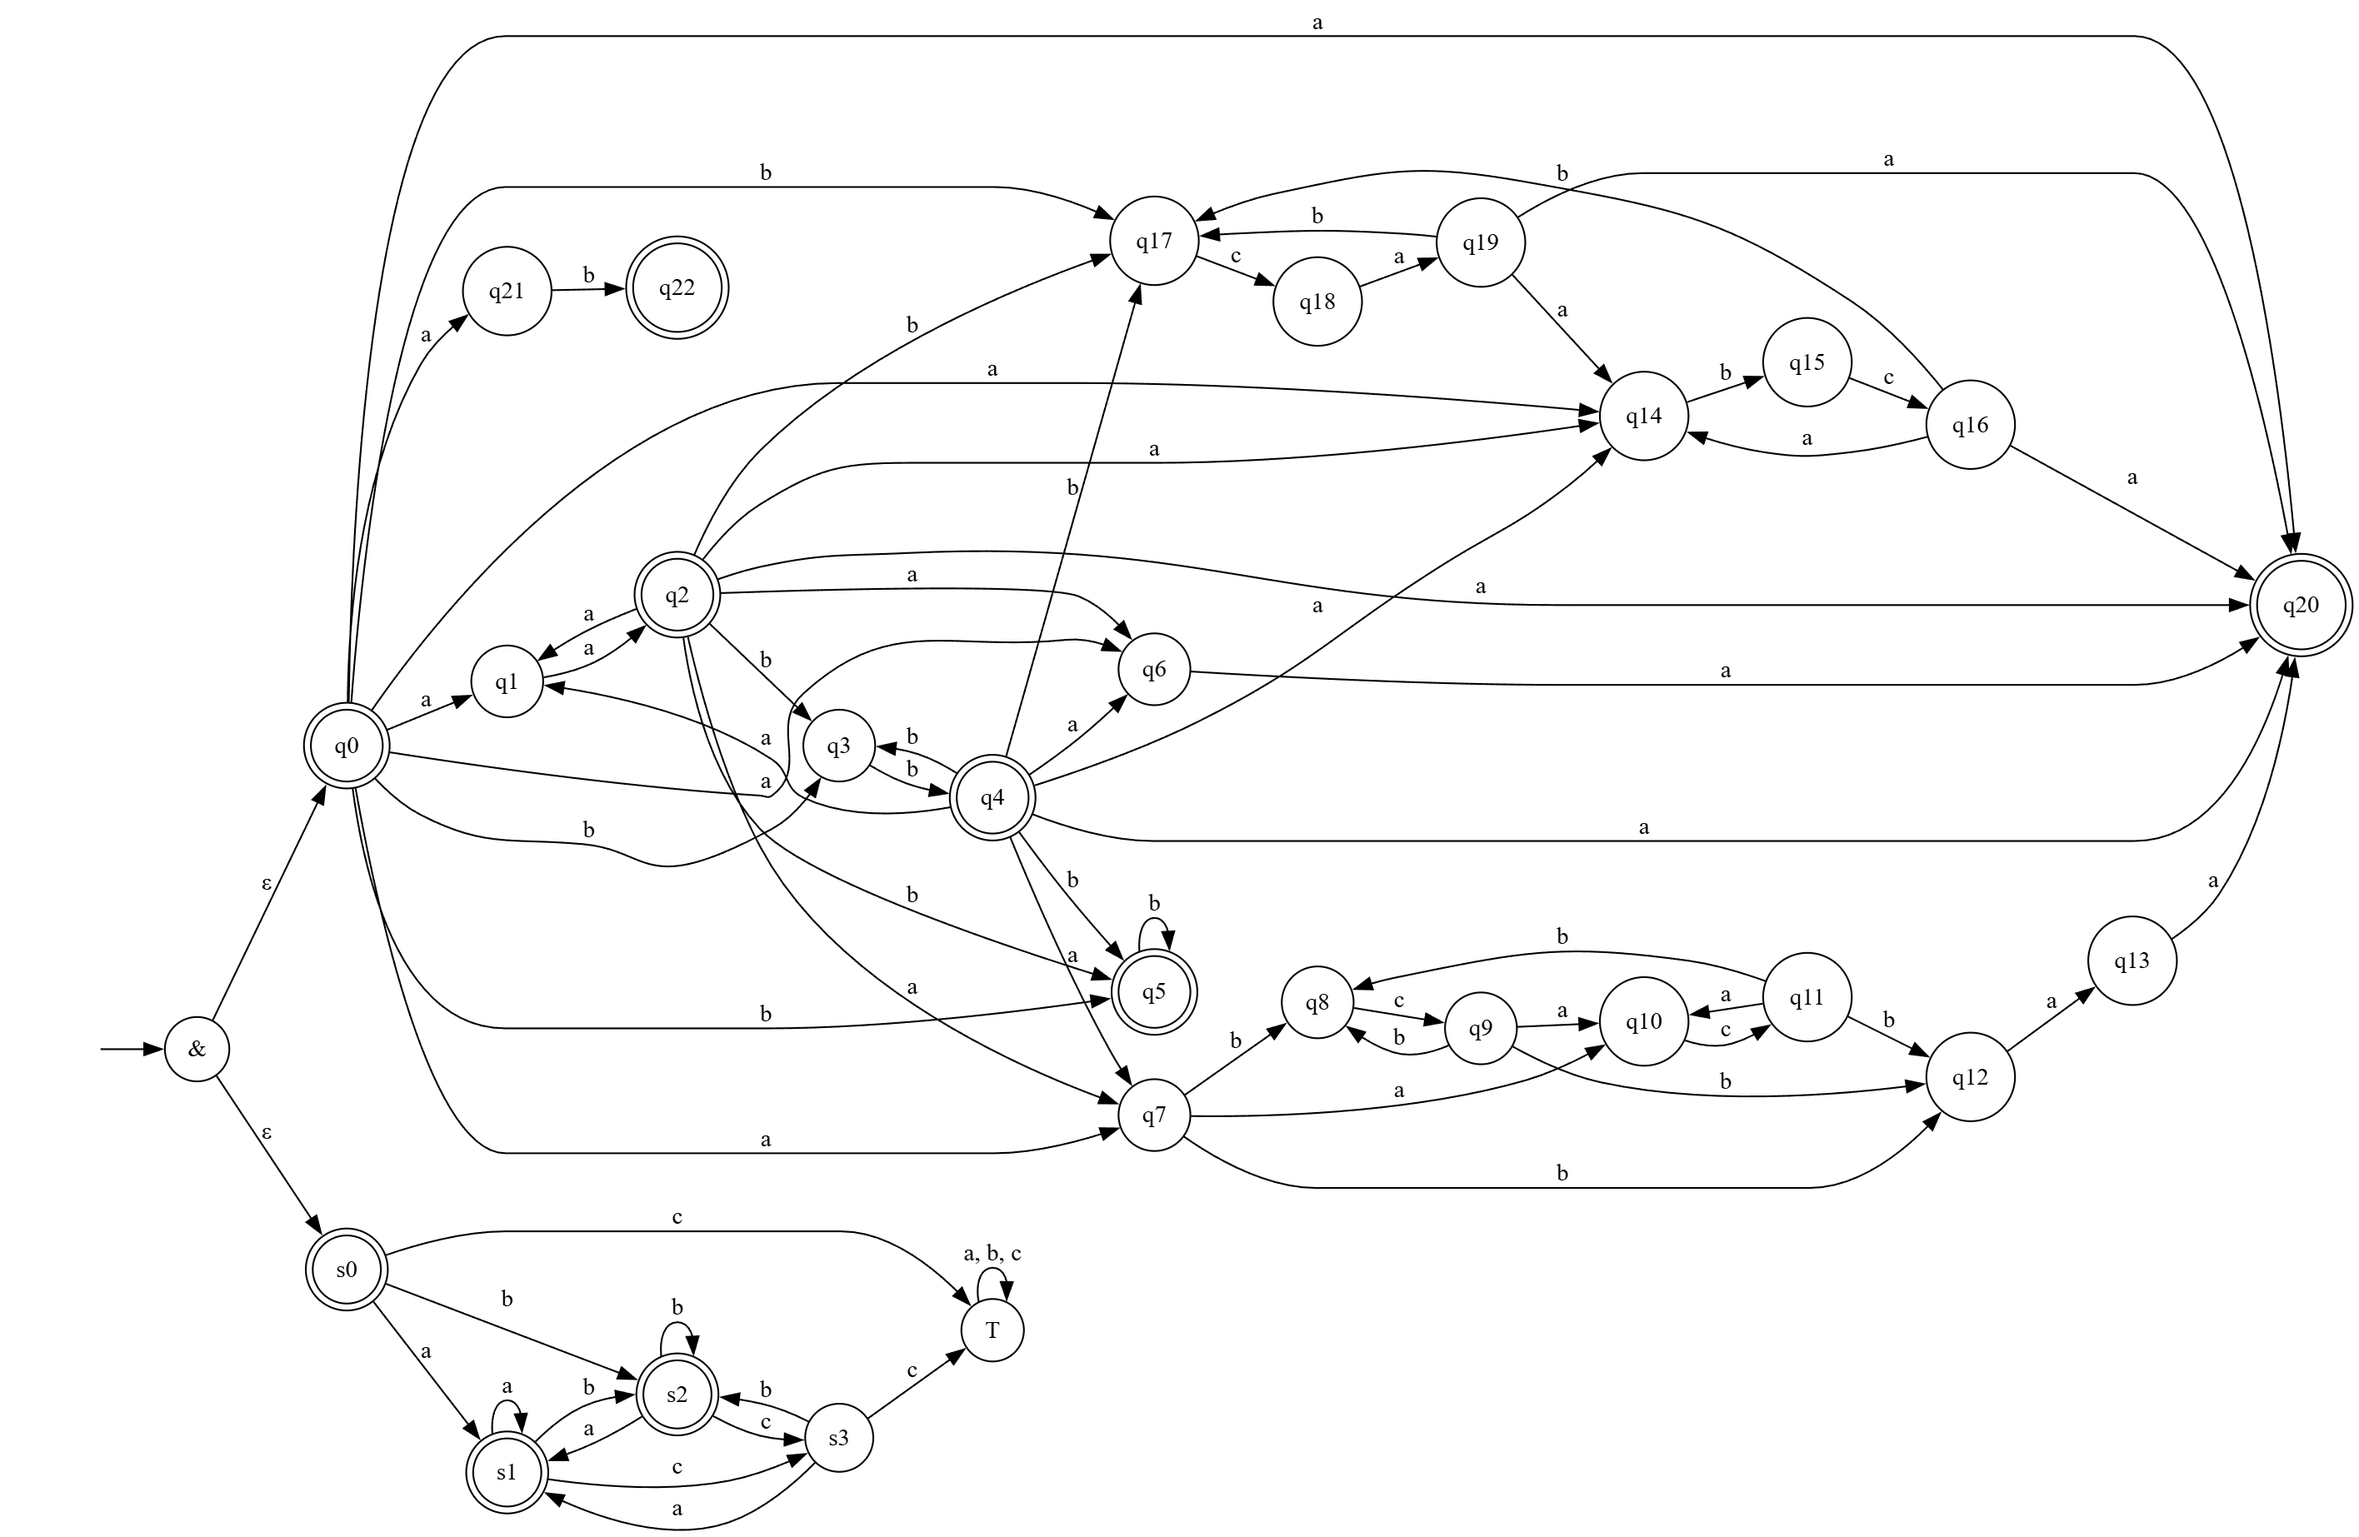
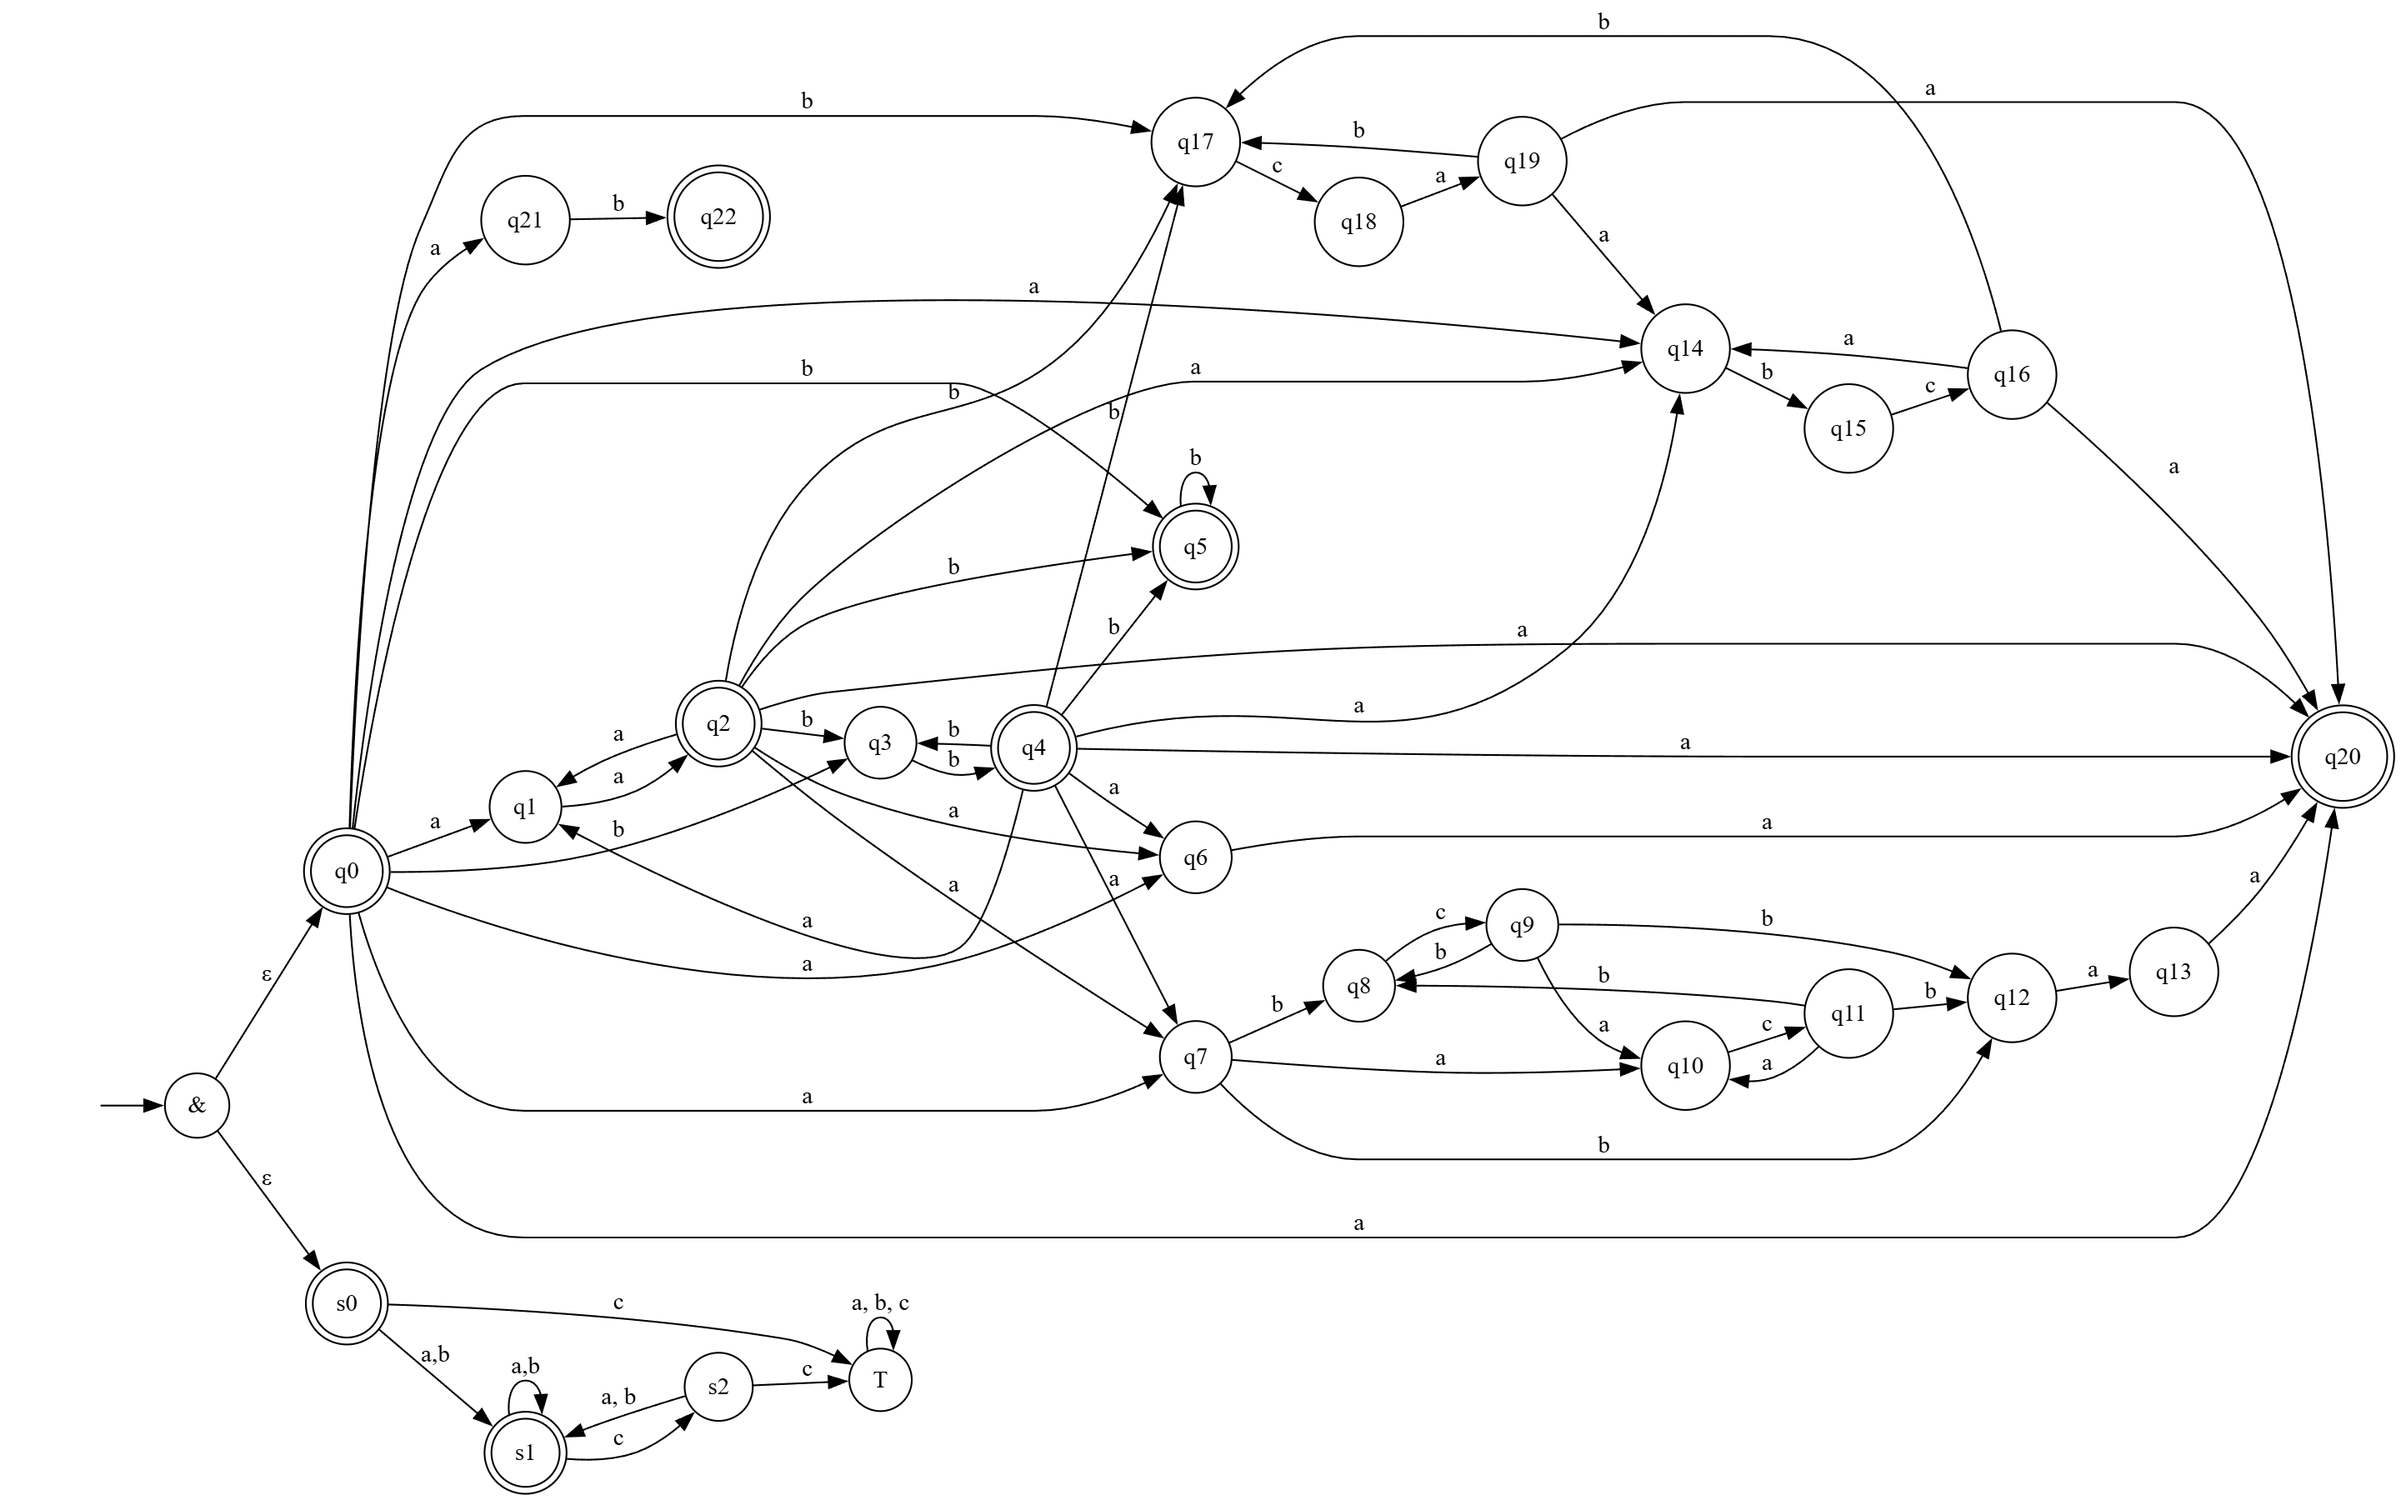
FixAFA

diff --git a/Lab2/FuzzTest/src/main.ts b/Lab2/FuzzTest/src/main.ts
@@ -238,27 +238,24 @@ class DFAForS {
 
     constructor() {
         this.transitions = new Map();
-        this.acceptStates = new Set(["s0", "s1", "s2"]);
+        this.acceptStates = new Set(["s0", "s1"]);
         this.setupTransitions();
     }
 
     private setupTransitions(): void {
-        const states = ["s0", "s1", "s2", "s3", "T"];
+        const states = ["s0", "s1", "s3", "T"];
         for (const state of states) {
             this.transitions.set(state, new Map());
         }
 
         this.addTransition("s0", "a", "s1");
-        this.addTransition("s0", "b", "s2");
+        this.addTransition("s0", "b", "s1");
         this.addTransition("s0", "c", "T");
         this.addTransition("s1", "a", "s1");
-        this.addTransition("s1", "b", "s2");
+        this.addTransition("s1", "b", "s1");
         this.addTransition("s1", "c", "s3");
-        this.addTransition("s2", "a", "s1");
-        this.addTransition("s2", "b", "s2");
-        this.addTransition("s2", "c", "s3");
         this.addTransition("s3", "a", "s1");
-        this.addTransition("s3", "b", "s2");
+        this.addTransition("s3", "b", "s1");
         this.addTransition("s3", "c", "T");
         this.addTransition("T", "a", "T");
         this.addTransition("T", "b", "T");
